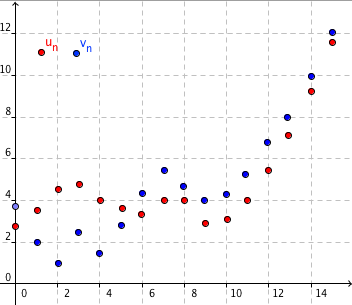
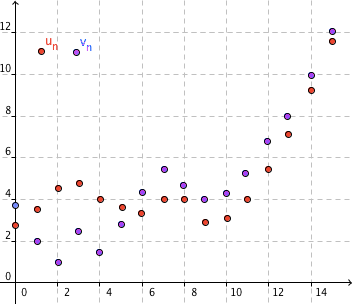
mer. 24 déc. 2025 10:10:25 CET

diff --git a/src/tspe/Suites-2.md b/src/tspe/Suites-2.md
@@ -1,1 +1,397 @@
-# Suites (2)
+## Suites (2)
+
+<!-- toc -->
+
+## Limites et comparaison
+
+### Théorèmes de comparaison
+
+```admonish th
+Soit deux suites $(u_{n})$ et $(v_{n})$.
+
+Si, à partir d'un certain rang, on a :
+
+$$
+\begin{cases}
+	u_{n} \le v_{n} \\\\
+	\limite_{n\to +\infty}{u_{n} = +\infty}
+\end{cases}
+\quad\text{alors}\quad \limite_{n\to +\infty}{v_{n} = +\infty}
+$$
+
+![](img/suites/ch2image2.png =600x center)
+
+Par abus de langage, on pourrait dire que la suite $(u_{n})$ **pousse** la suite $(v_{n})$ vers $+\infty$ à partir d'un certain rang.
+```
+
+```admonish demo
+Soit un nombre réel $a$
+
+- $\limite_{n\to +\infty}{u_{n} = +\infty}$, donc l'intervalle $\left\rbrack a; +\infty \right\lbrack$ contient tous les termes de la suite à partir d'un certain rang que l'on note $n_{1}$.
+
+On a donc pour tout $n \ge n_{1}$, $u_{n} > a$.
+
+- A partir d'un certain rang, que l'on note $n_{2}$, on a $u_{n} \le v_{n}$.
+
+- Ainsi pour tout $n \ge \text{max}(n_{1};n_{2})$, on a : $a \lt  u_{n} \le v_{n}$.
+
+On en déduit que l'intervalle $\left\rbrack a; +\infty \right\lbrack$ contient tous les termes de $(v_{n})$ à partir du rang $\text{max}(n_{1};n_{2})$.
+
+Et donc $\limite_{n\to +\infty}{v_{n} = +\infty}$.
+```
+
+```admonish th
+Soit deux suites $(u_{n})$ et $(v_{n})$.
+
+Si, à partir d'un certain rang, on a : $\begin{cases} u_{n} \ge v_{n} \\\\ \limite_{n\to +\infty}{u_{n} = -\infty} \end{cases}$ alors $\limite_{n\to +\infty}{v_{n} = -\infty}$.
+```
+
+```admonish meth title="Méthode : Déterminer une limite par comparaison"
+:bulb: Déterminer la limite suivante : $\limite_{n\to +\infty}{n^{2} + ( - 1)^{n}}$
+
+---
+
+> On a $\quad(-1)^n \ge -1\quad$ donc $\quad n^{2} + (-1)^{n} \ge n^{2} - 1$
+>
+> Or, $\limite_{n\to +\infty}\pa{n^{2} - 1} = +\infty$
+>
+> Donc par comparaison, $\quad\limite_{n\to +\infty}\pa{n^{2} + (-1)^{n}} = +\infty$
+```
+
+### Théorème d'encadrement
+
+```admonish th title="Théorème des gendarmes"
+Soit trois suites $(u_{n})$, $(v_{n})$ et $\left( w_{n} \right)$.
+
+Si, à partir d'un certain rang, on a : $\begin{cases}
+		u_{n} \le v_{n} \le w_{n}             \\\\
+		\limite_{n\to +\infty}{u_{n} = L} \\\\
+		\limite_{n\to +\infty}{w_{n} = L} \\\\
+	\end{cases}\quad$ alors $\quad\limite_{n\to +\infty}{v_{n} = L}$.
+
+![](img/suites/ch2image4.png =600x center)
+```
+
+```admonish rem
+Par abus de langage, on pourrait dire que les suites $(u_{n})$ et $(w_{n})$ (les gendarmes) se resserrent autour de la suite $(v_{n})$ à partir d'un certain rang pour la faire converger vers la même limite.
+
+Ce théorème est également appelé le **théorème du sandwich**.
+```
+
+```admonish demo
+Soit un intervalle ouvert $I$ contenant $L$.
+
+- $\limite_{n\to +\infty}u_{n} = L$, donc l'intervalle $I$ contient tous les termes de la suite à partir d'un certain rang que l'on note $n_{1}$.
+
+- $\limite_{n\to +\infty}w_{n} = L$, donc l'intervalle $I$ contient tous les termes de la suite à partir d'un certain rang que l'on note $n_{2}$.
+
+- A partir d'un certain rang, que l'on note $n_{3}$, on a $u_{n} \le v_{n} \le w_{n}$.
+
+- Ainsi pour tout $n \ge \text{max}(n_{1};n_{2};n_{3})$, l'intervalle $I$ contient tous les termes de la suite $(v_{n})$.
+
+Et donc $\limite_{n\to +\infty}v_{n} = L$.
+```
+
+```admonish meth title="Méthode : Déterminer une limite par encadrement"
+:bulb: Déterminer la limite suivante : $\limite_{n\to +\infty}\pa{1 +\dfrac{\sin{(n)}}{n}}$
+
+---
+
+> On a : $-1\le\sin{(n)}\le 1\quad$ donc $\quad\dfrac{-1}{n} \le \dfrac{\sin{(n)}}{n} \le \dfrac{1}{n}$
+>
+> Or : $\limite_{n\to +\infty}\pa{\dfrac{-1}{n}}=\limite_{n\to +\infty}\pa{\dfrac{1}{n}} = 0$
+>
+> Donc d'après le théorème des gendarmes : $\quad\limite_{n\to +\infty}\pa{\dfrac{\sin{(n)}}{n}} = 0$
+>
+> Et donc $\quad\limite_{n\to +\infty}\pa{1 +\dfrac{\sin{(n)}}{n}} = 1$
+```
+
+```admonish rem
+On utilise le théorème de comparaison pour démontrer une limite infinie et le théorème d'encadrement pour une limite finie.
+```
+
+## Suites majorées, minorées, bornées
+
+### Définitions
+
+```admonish def
+- La suite $(u_{n})$ est **majorée** s'il existe un réel $M$ tel que pour tout $n$, on a : $u_{n} \le M$.
+- La suite $(u_{n})$ est **minorée** s'il existe un réel $m$ tel que pour tout $n$, on a : $u_{n} \ge m$.
+- La suite $(u_{n})$ est **bornée** si elle est à la fois majorée et minorée.
+```
+
+```admonish exemple
+- Les suites $\cos{(n)}$ ou $(-1)^{n}$ sont bornées car minorées par $-1$ et majorées par $1$.
+
+- La suite $n^{2}$ est minorée par $0$. Mais elle n'est pas majorée.
+```
+
+```admonish meth title="Méthode : Démontrer qu'une suite est majorée ou minorée"
+On considère la suite $(u_{n})$ définie pour tout entier naturel $n$ par $\begin{cases}u_{n + 1} =\dfrac{1}{3}u_{n} + 2\\\\u_{0} = 2\end{cases}$
+
+:bulb: Démontrer par récurrence que la suite $(u_{n})$ est majorée par $3$.
+
+---
+
+> - **Initialisation :** $\quad u_{0} = 2 \lt 3$
+>
+> La propriété est donc vraie pour $n = 0$.
+>
+> - **Hérédité :**
+>     - Hypothèse de récurrence :
+>
+>         Supposons que la propriété soit vraie pour un certain entier $k$ : $u_{k} \lt  3$
+>
+>     - Démontrons que la propriété est vraie au rang $k + 1$ : $u_{k+1} \lt  3$
+>
+>         On a : $u_{k} \lt  3$
+>
+>         $$
+>           \begin{array}{rllcl}
+>           	u_k \lt 3 & \iff & \dfrac{1}{3} u_k     & \lt & \dfrac{1}{3} \times 3     \\\\
+>           	            & \iff & \dfrac{1}{3} u_k + 2 & \lt & \dfrac{1}{3} \times 3 + 2 \\\\
+>           	            & \iff & u_{k + 1}            & \lt & 3
+>           \end{array}
+>         $$
+>
+> - **Conclusion :**
+>
+>     La propriété est vraie pour $n = 0$ et héréditaire à partir de ce rang.
+>
+>     D'après le principe de récurrence, elle est vraie pour tout $n$, soit $u_{n} \lt  3$.
+>
+>     Donc $(u_{n})$ est majorée.
+```
+
+### Convergence des suites monotones
+
+```admonish prop
+Si une suite est croissante et admet pour limite $L$, alors elle est majorée par $L$.
+```
+
+```admonish demo title="Démonstration par l'absurde"
+Démontrons par l'absurde en supposant le contraire, soit : "Il existe un rang $p$, tel que $u_{p} > L$."
+
+- L'intervalle ouvert $\left\rbrack L - 1;u_{p} \right\lbrack$ contient $L$.
+
+    Or, par hypothèse, $\limite_{n\to +\infty}{u_{n} = L}$. Donc l'intervalle $\left\rbrack L - 1;u_{p} \right\lbrack$ contient tous les termes de la suite $(u_{n})$ à partir d'un certain rang (1).
+
+- Comme $(u_{n})$ est croissante : $u_{n} \ge u_{p}$ pour $n > p$ donc si $n > p$, alors $u_{n} \notin \left\rbrack L - 1;u_{p} \right\lbrack$ (2).
+
+(1) et (2) sont contradictoires, on en déduit qu'il n'existe pas $p \in \mathbb{N}$, tel que $u_{p} > L$.
+
+Et donc la suite $(u_{n})$ est majorée par $L$.
+```
+
+### Théorème de convergence monotone
+
+```admonish th
+- Si une suite est **croissante** et **majorée** alors elle est **convergente**.
+- Si une suite est **décroissante** et **minorée** alors elle est **convergente**.
+```
+
+```admonish rem
+Ce théorème permet de s'assurer de la convergence mais ne donne pas la limite.
+
+Dans l'exemple ci-dessous, la suite est décroissante et minorée par $2$.
+
+Cela prouve que la limite de la suite est supérieure à $2$ mais n'est pas nécessairement égale à $2$. Elle peut être égale à $4$ !
+
+![](img/suites/ch2image5.png =600x center)
+```
+
+```admonish meth title="Méthode : Utiliser le théorème de convergence monotone"
+On considère la suite $(u_{n})$ définie pour $n$ par : $\begin{cases}u_{n + 1} =\frac{1}{3}u_{n} + 2\\\\u_{0} = 2\end{cases}$
+
+:bulb: Démontrer que la suite $(u_{n})$ est convergente.
+
+---
+
+> On peut démontrer, \emph{facilement}, que la suite $(u_{n})$ est croissante.
+>
+> On a démontré dans la méthode précédente que la suite $(u_{n})$ est majorée par $3$.
+>
+> La suite $(u_{n})$ est donc croissante et majorée et, d'après le théorème de convergence monotone, on en déduit que la suite $(u_{n})$ est **convergente**.
+```
+
+```admonish th title="Corollaire"
+1. Si une suite est **croissante** et **non majorée** alors elle tend vers $+\infty$.
+2. Si une suite est **décroissante** et **non minorée** alors elle tend vers $-\infty$.
+```
+
+```admonish demo title="Démonstration (du 1) au programme"
+Soit un réel $a$.
+
+Comme $(u_{n})$ n'est pas majorée, il existe un entier $p$ tel que $u_{p} > a$.
+
+La suite $(u_{n})$ est croissante donc pour tout $n > p$, on a $u_{n} \ge u_{p}$.
+
+Donc pour tout $n > p$, on a : $u_{n} > a$.
+
+Et donc à partir d'un certain rang $p$, tous les termes de la suite appartiennent à $\left\rbrack a; +\infty \right\lbrack$.
+
+On en déduit que $\limite_{n\to +\infty}u_{n} = +\infty$.
+```
+
+## Comportement à l'infini d'une suite géométrique
+
+### Rappel
+
+```admonish prop
+Soit $(u_{n})$ une **suite géométrique** de raison $q$ et de premier terme $u_{0}$
+
+Alors, pour tout entier $n$, on a :
+
+- $u_{n + 1} = q \times u_{n}$ (forme de récurrence)
+- $u_{n} = u_{0} \times q^{n}$ (forme explicite).
+```
+
+```admonish exemple
+Soit $(u_{n})$ une suite géométrique de raison $-3$ et de premier terme $5$.
+
+On a : $\quad u_{n + 1} = -3u_{n}$ et $u_{n} =5 \times (-3)^{n}$.
+```
+
+### Limites
+
+```admonish prop
+$$
+	\begin{array}{|c|c|c|c|c|} \hline
+		q                               & q\lt -1            & -1\lt q\lt 1 & q=1 & q>1     \\\\ \hline
+		\limite_{n\to +\infty}q^{n} & \text{Pas de limite} & 0                & 1   & +\infty \\\\ \hline
+	\end{array}
+$$
+```
+
+```admonish demo title="Démonstration au programme dans le cas $q > 1$"
+- Prérequis :
+
+    Pour tout entier naturel $n$, on a : $(1 + a)^{n} \ge 1 + na$ (inégalité de Bernoulli)
+
+- On suppose que $q > 1$, alors on peut poser $q = a + 1$ avec $a > 0$.
+
+    $q^{n} = (1 + a)^{n} \ge 1 + na$, d'après l'inégalité de Bernoulli.
+
+    Or $\limite_{n \to \infty}{1 + na} = +\infty$ car $a > 0$.
+
+    Donc d'après le théorème de comparaison : $\limite_{n \to \infty}q^{n} = +\infty$
+```
+
+```admonish exemple
+La suite de terme général $u_n=-5 \times 4^{n}$ a pour limite $-\infty$ car $\limite_{n\to +\infty}4^{n} = +\infty$
+```
+
+```admonish meth title="Méthode : Étudier un phénomène modélisable par une suite"
+Un investisseur dépose $5 000$€ sur un compte rémunéré à $3\%$ par an.
+
+Chaque année suivante, il dépose $300$€ de plus sur ce compte.
+
+On note $(u_{n})$ la somme épargnée à l'année $n$. On a alors : $\begin{cases}u_{0} = 5 000\\\\u_{n + 1} = 1,03u_{n} + 300\end{cases}$
+
+1. Calculer $u_{1}$ et $u_{2}$.
+2. Prouver que la suite $(v_{n})$ définie pour tout entier $n$ par $v_{n} = u_{n} + 10 000$ est géométrique et donner sa raison et son premier terme.
+3. Exprimer $v_{n}$ en fonction de $n$.
+4. En déduire $u_{n}$ en fonction de $n$. Puis calculer $u_{10}$.
+5. Étudier les variations de $(u_{n})$.
+
+---
+
+1. $u_{1} = 1,03u_{0} + 300 = 5450$ et $u_{2} = 1,03u_{1} + 300 = 5913,5$
+2. On a :
+
+$$
+\begin{aligned}
+	v_{n + 1} & = u_{n + 1} + 10 000                                                                    \\\\
+	          & = 1,03u_{n} + 300 + 10 000                                                              \\\\
+	          & = 1,03u_{n} + 10 300                                                                    \\\\
+	          & = 1,03\left( v_{n} - 10 000 \right) + 10 300\quad\text{car}\quad v_{n} = u_{n} + 10 000 \\\\
+	          & = 1,03v_{n} - 10 300 + 10 300\quad = 1,03v_{n}
+\end{aligned}
+$$
+
+Donc $(v_{n})$ est une suite géométrique de raison $1,03$ et de premier terme :
+
+$$v_{0} = u_{0} + 10 000 = 5 000 + 10 000 = 15 000$$
+
+3.  Pour tout $n$, on a : $v_{n} = 15 000 \times {1,03}^{n}$.
+4.  $u_{n} = v_{n} - 10 000 = 15 000 \times {1,03}^{n} - 10 000$
+
+    On a alors : $u_{10} = 15 000 \times {1,03}^{10} - 10 000 \approx 10 158,75$
+
+5.  On a :
+
+$$
+\begin{array}{rcl}
+	u_{n + 1} - u*{n} & = & \pa{15 000 \times {1,03}^{n + 1} - 10 000} - \pa{ 15 000 \times {1,03}^{n} - 10 000} \\\\
+	                  & = & 15 000 \times \left( {1,03}^{n + 1} - {1,03}^{n} \right)                             \\\\
+	                  & = & 15 000 \times {1,03}^{n} \times (1,03 - 1)                                           \\\\
+	                  & = & 450 \times {1,03}^{n} \qquad > 0
+\end{array}
+$$
+
+Donc la suite $(u_{n})$ est strictement croissante.
+```
+
+### Somme des termes d'une suite géométrique
+
+```admonish prop
+$n$ est un entier naturel non nul et $q$ un réel différent de 1 alors on a :
+
+$$1 + q + q^{2} + \ldots + q^{n} = \frac{1 - q^{n + 1}}{1 - q}$$
+```
+
+```admonish meth title="Méthode : Utiliser la limite d'une suite géométrique"
+:bulb: Déterminer, si elles existent, les limites suivantes :
+
+a) $\limite_{n\to +\infty}\dfrac{( - 2)^{n}}{3}$
+b) $\limite_{n\to +\infty}{2^{n} - 3^{n}}$
+c) $\limite_{n\to +\infty}1 + \frac{1}{2} + \left( \frac{1}{2} \right)^{2} + \left( \frac{1}{2} \right)^{3} + \ldots + \left( \frac{1}{2} \right)^{n}$
+
+---
+
+a) $\limite_{n\to +\infty}\dfrac{( - 2)^{n}}{3}$
+
+> $\left((-2)^{n}\right)$ est une suite géométrique de raison $-2$ strictement inférieure à $-1$.
+>
+> Donc $\left((-2)^{n} \right)$ ne possède pas de limite.
+>
+> Et donc $\limite_{n\to +\infty}\dfrac{( - 2)^{n}}{3}$ n'existe pas.
+
+---
+
+b) $\limite_{n\to +\infty}{2^{n} - 3^{n}}$
+
+> On a : $\begin{cases}\limite_{n\to +\infty}{2^{n} = +\infty}\\\\ \limite_{n\to +\infty}{3^{n} = +\infty}\end{cases}\quad$ Il s'agit d'une forme indéterminée du type $\infty -\infty$
+>
+> Levons l'indétermination :
+>
+> $$2^{n} - 3^{n} = 3^{n}\left( \dfrac{2^{n}}{3^{n}} - 1 \right) = 3^{n}\left( \left( \dfrac{2}{3} \right)^{n} - 1 \right)$$
+>
+> Or : $\limite_{n\to +\infty}{\left( \dfrac{2}{3} \right)^{n}} = 0$, comme limite d'une suite géométrique de raison $\dfrac{2}{3}$ avec $- 1 \lt \dfrac{2}{3} \lt 1$
+>
+> Donc : $\limite_{n\to +\infty}\left( \dfrac{2}{3} \right)^{n} - 1 = - 1$
+>
+> On a : $\limite_{n\to +\infty}{3^{n} = +\infty},$ comme limite d'une suite géométrique de raison $3 > 1$.
+>
+> Donc, comme limite d'un produit : $\quad\limite_{n\to +\infty}3^{n}\left( \left( \dfrac{2}{3} \right)^{n} - 1 \right) = -\infty$
+>
+> Soit : $\limite_{n\to +\infty}{2^{n} - 3^{n}} = -\infty$.
+
+---
+
+c) $\limite_{n\to +\infty}1 + \frac{1}{2} + \left( \frac{1}{2} \right)^{2} + \left( \frac{1}{2} \right)^{3} + \ldots + \left( \frac{1}{2} \right)^{n}$
+
+> On reconnaît la somme des premiers termes d'une suite géométrique de raison $\dfrac{1}{2}$ et de premier terme 1.
+>
+> On a donc :
+>
+> $$1 + \dfrac{1}{2} + \left( \dfrac{1}{2} \right)^{2} + \left( \dfrac{1}{2} \right)^{3} + \ldots + \left( \dfrac{1}{2} \right)^{n} = \dfrac{1 - \left( \dfrac{1}{2} \right)^{n + 1}}{1 - \dfrac{1}{2}} = 2 \times \left( 1 - \left( \dfrac{1}{2} \right)^{n + 1} \right)$$
+>
+> Or $\limite_{n\to +\infty}{\left( \dfrac{1}{2} \right)^{n + 1}} = 0$, comme limite d'une suite géométrique de raison $\dfrac{1}{2}$ avec $-1\lt\dfrac{1}{2}\lt 1$.
+>
+> Donc : $\limite_{n\to +\infty}1 - \left( \dfrac{1}{2} \right)^{n + 1} = 1$.
+>
+> Et donc : $\limite_{n\to +\infty}2\left( 1 - \left( \dfrac{1}{2} \right)^{n + 1} \right) = 2$.
+>
+> Soit : $\limite_{n\to +\infty}1 + \dfrac{1}{2} + \left( \dfrac{1}{2} \right)^{2} + \left( \dfrac{1}{2} \right)^{3} + \ldots + \left( \dfrac{1}{2} \right)^{n} = 2$.
+```
